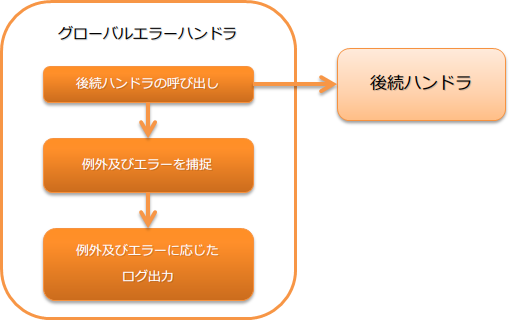
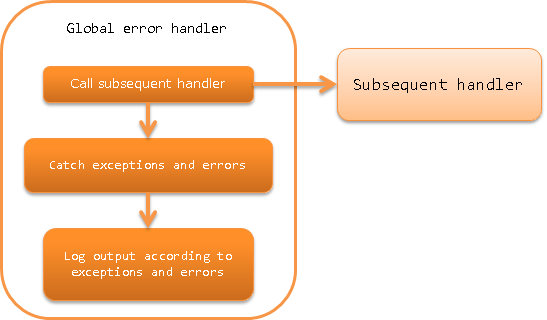
グローバルエラーハンドラページを英語化

diff --git a/en/application_framework/application_framework/handlers/common/global_error_handler.rst b/en/application_framework/application_framework/handlers/common/global_error_handler.rst
@@ -1,23 +1,23 @@
 .. _global_error_handler:
 
-グローバルエラーハンドラ
+Global Error Handler
 ========================================
-.. contents:: 目次
+.. contents:: Table of contents
   :depth: 3
   :local:
 
-後続ハンドラで発生した未捕捉の例外及びエラーを捕捉し、ログ出力及び結果返却を行うハンドラ。
+This handler catches uncaught exceptions and errors that occur in the subsequent handler, performs log output and returns a result.
 
-処理の流れは以下のとおり。
+The process flow is as follows.
 
 
 .. image:: ../images/GlobalErrorHandler/flow.png
 
-ハンドラクラス名
+Handler class name
 --------------------------------------------------
 * :java:extdoc:`nablarch.fw.handler.GlobalErrorHandler`
 
-モジュール一覧
+Module list
 --------------------------------------------------
 .. code-block:: xml
 
@@ -26,114 +26,113 @@
     <artifactId>nablarch-fw</artifactId>
   </dependency>
 
-制約
+Constraints
 --------------------------------------------------
 
-できるだけハンドラキューの先頭に配置すること
-  このハンドラは未補足例外を処理するため、特に理由がない限り、できるだけハンドラキューの先頭に配置すること。
-  
-  もし、このハンドラより手前のハンドラで例外が発生した場合は、ウェブアプリケーションサーバやJVMにより例外処理が行われる。
+This handler should be placed at the beginning of the handler queue as far as possible
+  Since this handler processes exceptions, it should be placed at the start of the handler queue as far as possible, unless there is a particular reason.
 
-例外及びエラーに応じた処理内容
---------------------------------------------------
-このハンドラでは捕捉した例外及びエラーの内容に応じて、以下の処理と結果の生成を行う。
+  If an exception has occurred in a handler that is placed before this handler, exception handling will be performed by the Web application server or JVM.
 
-例外に応じた処理内容
+Process details according to the exceptions and errors
+-------------------------------------------------------------------------
+This handler generates the following process and results depending on the contents of the exceptions and errors that are caught.
+
+Process details according to the exception
   .. list-table::
     :header-rows: 1
     :class: white-space-normal
     :widths: 25 75
 
-    * - 例外クラス
-      - 処理内容
+    * - Exception class
+      - Process details
 
-    * - :java:extdoc:`ServiceError <nablarch.fw.results.ServiceError>` 
-      
-        (サブクラス含む)
+    * - :java:extdoc:`ServiceError <nablarch.fw.results.ServiceError>`
 
-      - :java:extdoc:`ServiceError#writeLog <nablarch.fw.results.ServiceError.writeLog(nablarch.fw.ExecutionContext)>` を呼び出し、ログ出力を行う。
+        (Including subclass)
 
-        ログレベルは、 :java:extdoc:`ServiceError <nablarch.fw.results.ServiceError>` の実装クラスにより異なる。
+      - Calls :java:extdoc:`ServiceError#writeLog <nablarch.fw.results.ServiceError.writeLog(nablarch.fw.ExecutionContext)>` and outputs log.
 
-        ログ出力後、ハンドラの処理結果として、 :java:extdoc:`ServiceError <nablarch.fw.results.ServiceError>` を返却する。
+        The log level differs depending on the implementation class of :java:extdoc:`ServiceError <nablarch.fw.results.ServiceError>`.
+
+        After log output, returns :java:extdoc:`ServiceError <nablarch.fw.results.ServiceError>` as the processing result of the handler.
 
     * - :java:extdoc:`Result.Error <nablarch.fw.Result.Error>`
 
-        (サブクラス含む)
+        (Including subclass)
 
-      - FATALレベルのログ出力を行う。
+      - Performs FATAL level log output.
 
-        ログ出力後、ハンドラの処理結果として、 :java:extdoc:`Result.Error <nablarch.fw.Result.Error>` を返却する。
+        After log output, returns :java:extdoc:`Result.Error <nablarch.fw.Result.Error>` as the processing result of the handler.
 
-    * - 上記以外の例外クラス
+    * - Exception classes other than the above
 
-      - FATALレベルのログ出力を行う。
-        
-        ログ出力後、捕捉した例外を原因に持つ :java:extdoc:`InternalError <nablarch.fw.results.InternalError>` を生成し、ハンドラの処理結果として返却する。
+      - Performs FATAL level log output.
 
-エラーに応じた処理内容
+        After log output, generates :java:extdoc:`InternalError <nablarch.fw.results.InternalError>` with the exception that is caught as the cause and returns it as the processing result of the handler.
+
+Process details according to the error
   .. list-table::
     :header-rows: 1
     :class: white-space-normal
     :widths: 25 75
 
-    * - エラークラス
-      - 処理内容
+    * - Error class
+      - Process details
 
     * - :java:extdoc:`ThreadDeath <java.lang.ThreadDeath>`
 
-        (サブクラス含む)
+        (Including subclass)
 
-      - INFOレベルのログ出力を行う。
+      - Performs INFO level log output.
 
-        ログ出力後、捕捉したエラーをリスローする。
+        After log output, the error that has been caught is rethrown.
 
     * - :java:extdoc:`StackOverflowError <java.lang.StackOverflowError>`
 
-        (サブクラス含む)
+        (Including subclass)
 
-      - FATALレベルのログ出力を行う。
-        
-        ログ出力後、捕捉したエラーを原因に持つ :java:extdoc:`InternalError <nablarch.fw.results.InternalError>` を生成し、ハンドラの処理結果として返却する。
+      - Performs FATAL level log output.
+
+        After log output, generates :java:extdoc:`InternalError <nablarch.fw.results.InternalError>` with the error that has been caught as the cause and returns it as the processing result of the handler.
 
     * - :java:extdoc:`OutOfMemoryError <java.lang.OutOfMemoryError>`
 
-        (サブクラス含む)
+        (Including subclass)
 
-      - FATALレベルのログ出力を行う。
+      - Performs FATAL level log output.
 
-        なお、FATALレベルのログ出力に失敗する可能性(再度 `OutOfMemoryError` が発生する可能性)があるため、
-        ログ出力前に標準エラー出力に `OutOfMemoryError` が発生したことを出力する。
+        Since there is a possibility that FATAL level log output may fail (`OutOfMemoryError` may reoccur), the occurrence of `OutOfMemoryError` is output to the standard error output before the log output.
 
-        ログ出力後、捕捉したエラーを原因に持つ :java:extdoc:`InternalError <nablarch.fw.results.InternalError>` を生成し、ハンドラの処理結果として返却する。
+        After log output, generates :java:extdoc:`InternalError <nablarch.fw.results.InternalError>` with the error that has been caught as the cause and returns it as the processing result of the handler.
 
     * - :java:extdoc:`VirtualMachineError <java.lang.VirtualMachineError>`
 
-        (サブクラス含む)
+        (Including subclass)
 
-      - FATALレベルのログ出力を行う。
+      - Performs FATAL level log output.
 
-        ログ出力後、捕捉したエラーをリスローする。
+        After log output, the error that has been caught is rethrown.
 
         .. tip::
-          
-          :java:extdoc:`StackOverflowError <java.lang.StackOverflowError>` 及び :java:extdoc:`OutOfMemoryError <java.lang.OutOfMemoryError>` 以外が対象となる。
 
-    * - 上記以外のエラークラス
+          Classes other than :java:extdoc:`StackOverflowError <java.lang.StackOverflowError>` and :java:extdoc:`OutOfMemoryError <java.lang.OutOfMemoryError>` are covered.
 
-      - FATALレベルのログ出力を行う。
-        
-        ログ出力後、捕捉したエラーを原因に持つ :java:extdoc:`InternalError <nablarch.fw.results.InternalError>` を生成し、ハンドラの処理結果として返却する。
+    * - Error classes other than the above
+
+      - Performs FATAL level log output.
+
+        After log output, generates :java:extdoc:`InternalError <nablarch.fw.results.InternalError>` with the error that has been caught as the cause and returns it as the processing result of the handler.
 
 
 
-グローバルエラーハンドラでは要件を満たせない場合
---------------------------------------------------
-このハンドラは、設定などで実装を切り替えることはできない。
-このため、この実装で要件を満たすことができない場合は、
-プロジェクト固有のエラー処理用ハンドラを作成し対応すること。
+If the global error handler cannot satisfy the requirements
+-------------------------------------------------------------------------
+The implementation cannot be switched by configuration for this handler.
+For this reason, a project-specific error processing handler has to be created
+if the requirements cannot be satisfied with this implementation.
 
-例えば、ログレベルを細かく切り替えたい場合などは、このハンドラを使用するのではなく、ハンドラを新たに作成すると良い。
+For example, a new handler may be created instead of using this handler to switch the log level in detail.
 
 
 
